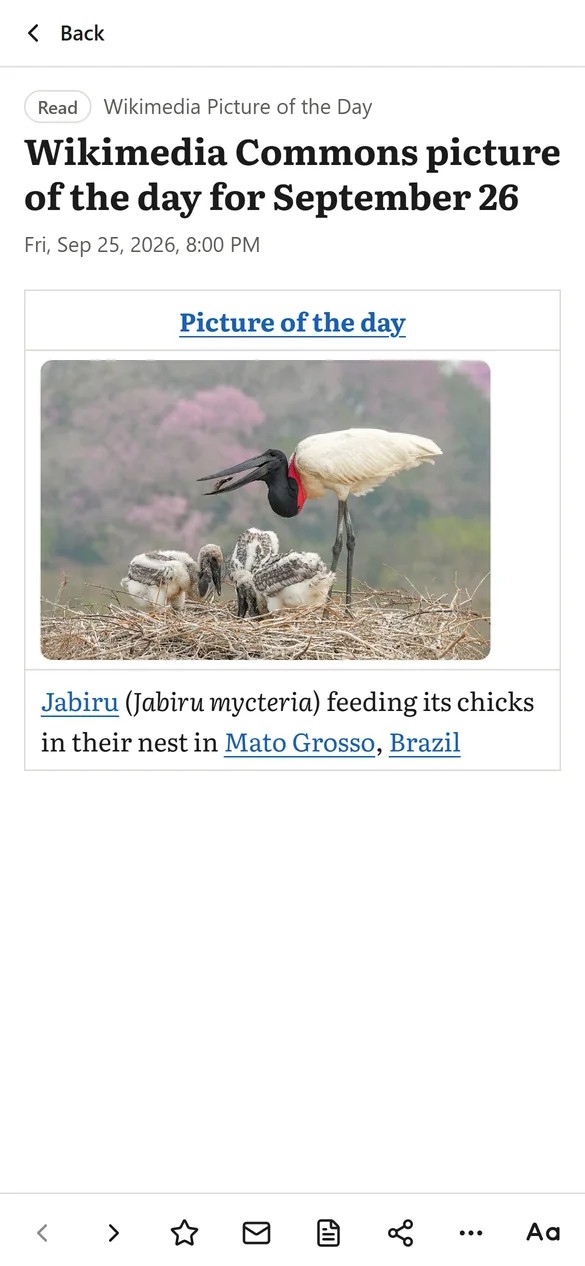
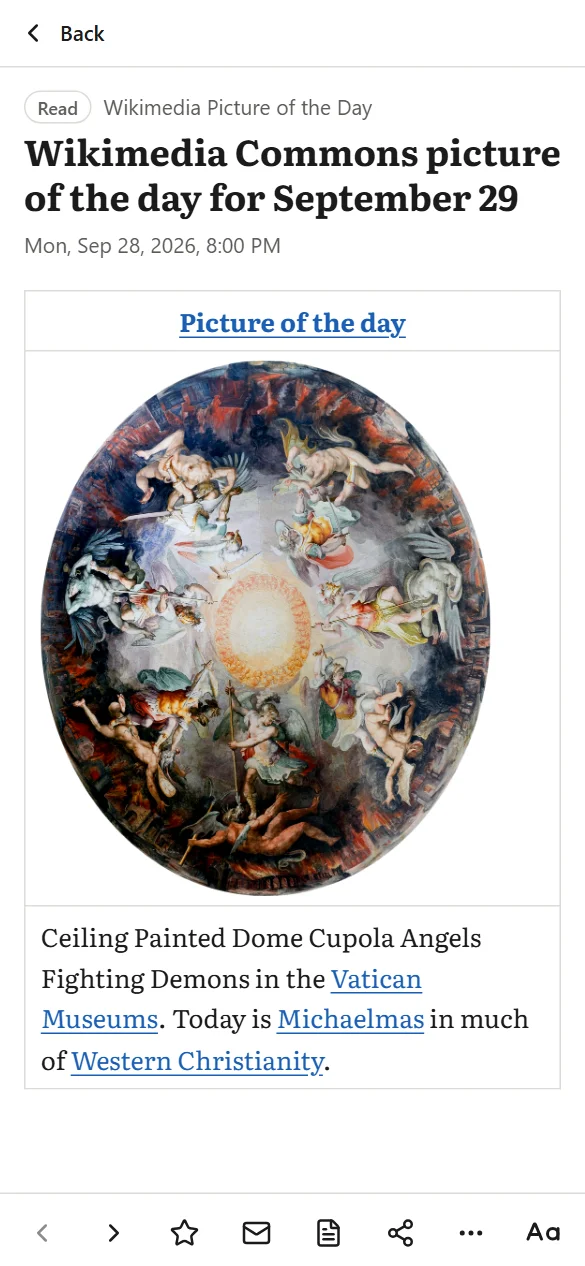
docs: v0.3.0-beta.2 status text, fresh screenshots and social preview (#2)

diff --git a/index.html b/index.html
@@ -171,7 +171,7 @@ docker compose -f docker-compose.example.yml up -d kipple</code></pre>
   <section class="sect">
     <div class="wrap">
       <h2>Where it stands</h2>
-      <p class="status"><span class="mono">v0.3.0-beta.1</span> is the current build. Fetching, sync, the reading UI, the installable offline-capable app, and reading stats with a yearly Wrapped all run daily. Testing before 1.0 is under way. The diary, decisions and dead ends from building it are in <a href="https://github.com/WPTK/kipple-history">kipple-history</a>.</p>
+      <p class="status"><span class="mono">v0.3.0-beta.2</span> is the current build. Fetching, sync, the reading UI, the installable offline-capable app, and reading stats with a yearly Wrapped all run daily. Testing before 1.0 is under way. The diary, decisions and dead ends from building it are in <a href="https://github.com/WPTK/kipple-history">kipple-history</a>.</p>
     </div>
   </section>
 </main>

diff --git a/design-system/DESIGN-SYSTEM.md b/design-system/DESIGN-SYSTEM.md
@@ -256,11 +256,14 @@ for reduced motion. No other animation.
   `blob/main/LICENSE`, deploy notes at `blob/main/docs/deploy.md`), https://github.com/WPTK/kipple-history,
   https://wptk.org.
 - `screenshots/`: four WebP files listed in the Screenshots component. Captured from a throwaway instance of the app
-  (the app repo's `npm run seed`, with the seed feeds changed to Wikimedia Picture of the Day, Wikipedia Featured
-  Article, NASA Image of the Day, Go Blog and Hacker News, filed in a folder named "Less noise"), at commit
-  `beba9f3` of the app repo (branch phase3-pwa). Desktop: 1440 x 900 at 2x, resized to 1800 wide. Phone: 390 x 844 at
-  3x, resized to 585 wide. Light is the app's Paper scheme. Dark is the app following a dark system setting, which
-  gives Midnight. Article shown: Wikimedia Commons picture of the day for September 26 (a jabiru with chicks).
+  by the app repo's `web/scripts/site-shots.mjs` (run at every release, `docs/RELEASING.md` step 12), after
+  `KIPPLE_SEED_SET=site npm run seed`, which seeds Wikimedia Picture of the Day, Wikipedia Featured Article, NASA
+  Image of the Day, Go Blog and Hacker News in a folder named "Less noise". Last captured 2026-09-29 at app commit
+  `0fa8450` (`v0.3.0-beta.2`). Desktop: a 1440 x 900 viewport at 1.25x, giving 1800 x 1125 directly. Phone: 390 x 844
+  at 1.5x, giving 585 x 1266. The list uses the device's default layout (Editorial). Light is the app's Paper scheme.
+  Dark is the app following a dark system setting, which gives Midnight. Article shown: the Wikimedia Commons picture
+  of the day for September 29 (the ceiling painting in the Vatican Museums). The WebP files are encoded by the browser
+  at quality 0.85. `og.png` is re-rendered by the same script from `design-system/social-preview.html`.
 - The hero sample panel (unread count 420) is HTML and CSS, not a screenshot.
 - Favicon: `favicon.svg`, `favicon.ico` (16, 32 and 48 px), `apple-touch-icon.png` (180 x 180).
   The mark is the lowercase letter "k" from Vollkorn at weight 600, converted to a vector outline (no live text),
@@ -281,6 +284,6 @@ for reduced motion. No other animation.
 - Only the default Paper scheme was looked at in a browser by the assistant that wrote this file. The author has
   looked at the other schemes in a browser and found them good.
 - Paper and Airmail differ from the app's schemes (section 4).
-- The screenshots use public sample feeds, not a real reading list. They were taken before the app's Phase 3 work is
-  released.
+- The screenshots use public sample feeds, not a real reading list, and show whatever those feeds published on the day
+  they were captured.
 - The GitHub repo social preview image has to be uploaded by hand.
